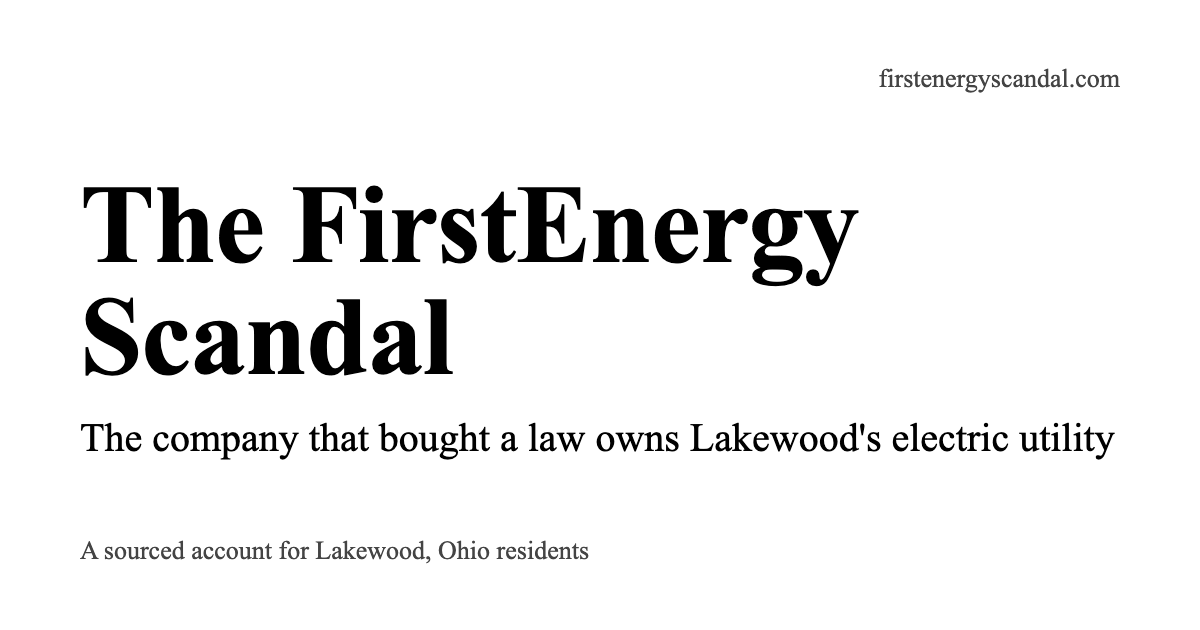
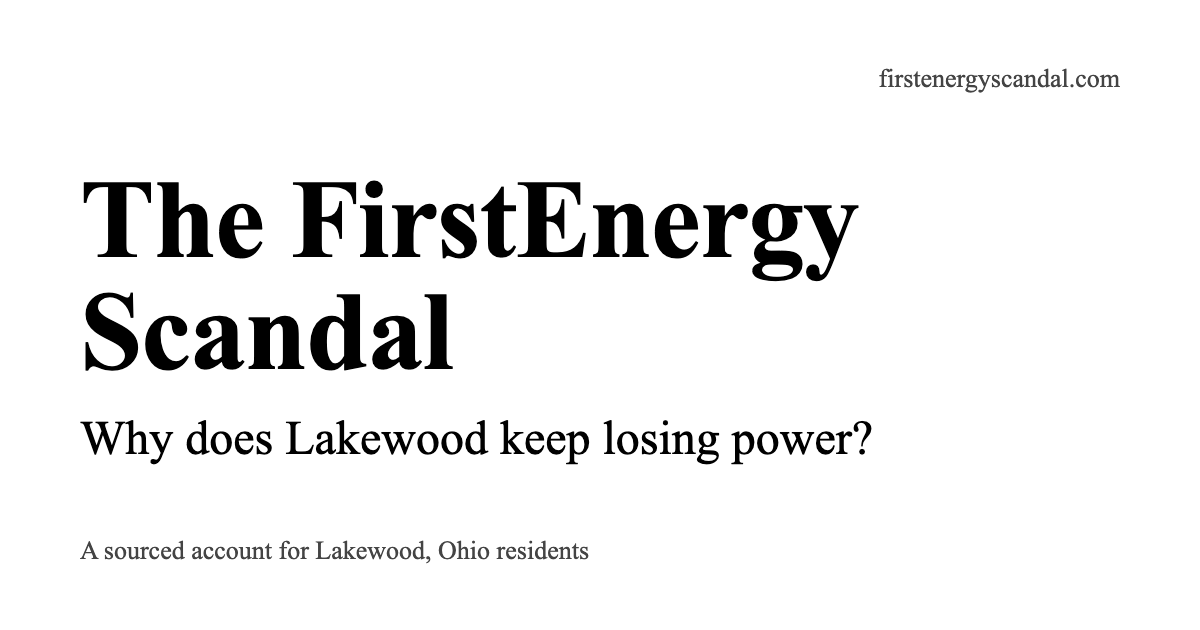
Share image leads with the yard sign question

diff --git a/index.html b/index.html
@@ -8,7 +8,7 @@
 <meta property="og:title" content="The FirstEnergy Scandal">
 <meta property="og:description" content="A sourced account for Lakewood, Ohio residents: how FirstEnergy paid for House Bill 6, how the scheme came apart, and why Lakewood's power keeps failing in the heat.">
 <meta property="og:url" content="https://firstenergyscandal.com/">
-<meta property="og:image" content="https://firstenergyscandal.com/og.png">
+<meta property="og:image" content="https://firstenergyscandal.com/og.png?v=2">
 <meta property="og:image:width" content="1200">
 <meta property="og:image:height" content="630">
 <meta name="twitter:card" content="summary_large_image">

diff --git a/history/index.html b/history/index.html
@@ -7,7 +7,7 @@
 <meta property="og:title" content="Who Powers Lakewood | The FirstEnergy Scandal">
 <meta property="og:description" content="Lakewood built its own electric plant in the 1890s and sold it to CEI in 1907. A sourced history of who has powered Lakewood since.">
 <meta property="og:url" content="https://firstenergyscandal.com/history/">
-<meta property="og:image" content="https://firstenergyscandal.com/og.png">
+<meta property="og:image" content="https://firstenergyscandal.com/og.png?v=2">
 <meta name="twitter:card" content="summary_large_image">
 <style>
 .sitehead{margin:0 0 22px}

diff --git a/map/index.html b/map/index.html
@@ -6,7 +6,7 @@
 <meta property="og:title" content="Lakewood Grid Map | The FirstEnergy Scandal">
 <meta property="og:description" content="Which substation serves your Lakewood street, what has failed, and what FirstEnergy has promised.">
 <meta property="og:url" content="https://firstenergyscandal.com/map/">
-<meta property="og:image" content="https://firstenergyscandal.com/og.png">
+<meta property="og:image" content="https://firstenergyscandal.com/og.png?v=2">
 <meta name="twitter:card" content="summary_large_image">
 <style>
 .sitehead{margin:0 0 22px}
